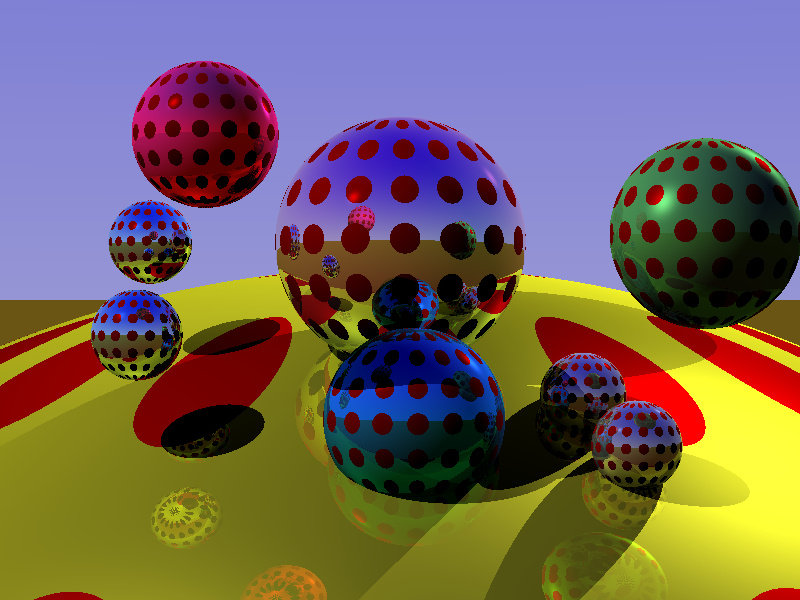
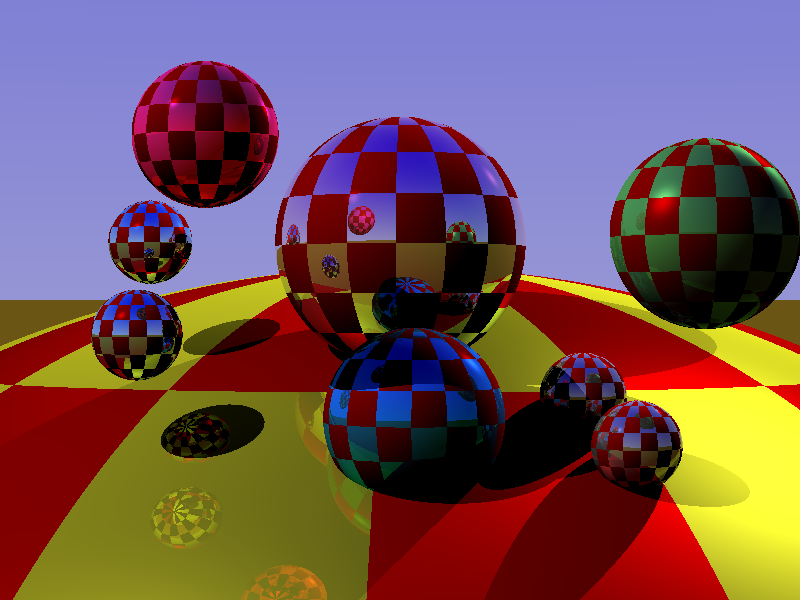
procedure damier

diff --git a/src/Sphere.java b/src/Sphere.java
@@ -102,17 +102,12 @@ public class Sphere
         lon *= 180 / (float)Math.PI;
         lat *= 180 / (float)Math.PI;
 
-        // centre du pois le plus proche
-        float pois_lon = Constantes.POIS * Math.round(lon / Constantes.POIS);
-        float pois_lat = Constantes.POIS * Math.round(lat / Constantes.POIS);
+        // supprimer les nombre negatif
+        lon += 180;
+        lat += 90;
 
-        // a quelle distance se trouve-t-on du centre du plus proche pois ?
-        float diff_lon = lon - pois_lon;
-        float diff_lat = lat - pois_lat;
-        float dist_pois = (float)Math.sqrt(diff_lon*diff_lon + diff_lat*diff_lat);
-
-        if (dist_pois < Constantes.POIS *0.3) {
-            // je suis dans un pois
+        if (( (int)(lon/Constantes.POIS) + (int)(lat/Constantes.POIS)) %2 == 0) {
+            // je suis dans un carre
             Kd_mod = new Couleur(1, 0, 0);
             Ks_mod = new Couleur(0, 0, 0);
         }
